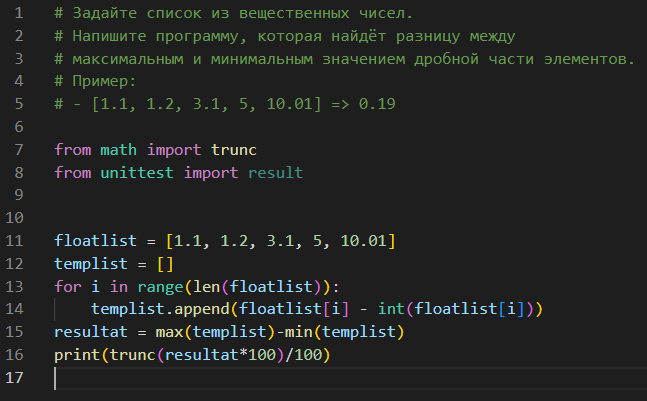
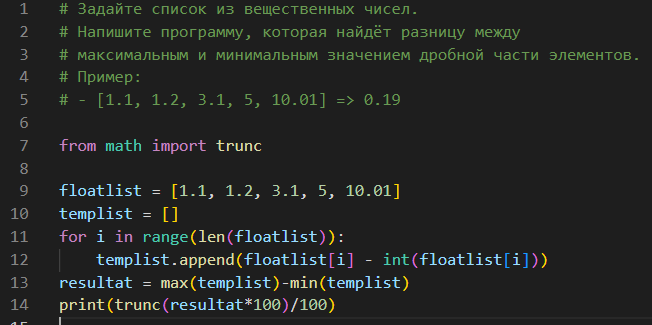
add code

diff --git a/HWtask013.py b/HWtask013.py
@@ -5,8 +5,6 @@
 # - [1.1, 1.2, 3.1, 5, 10.01] => 0.19
 
 from math import trunc
-from unittest import result
-
 
 floatlist = [1.1, 1.2, 3.1, 5, 10.01]
 templist = []
